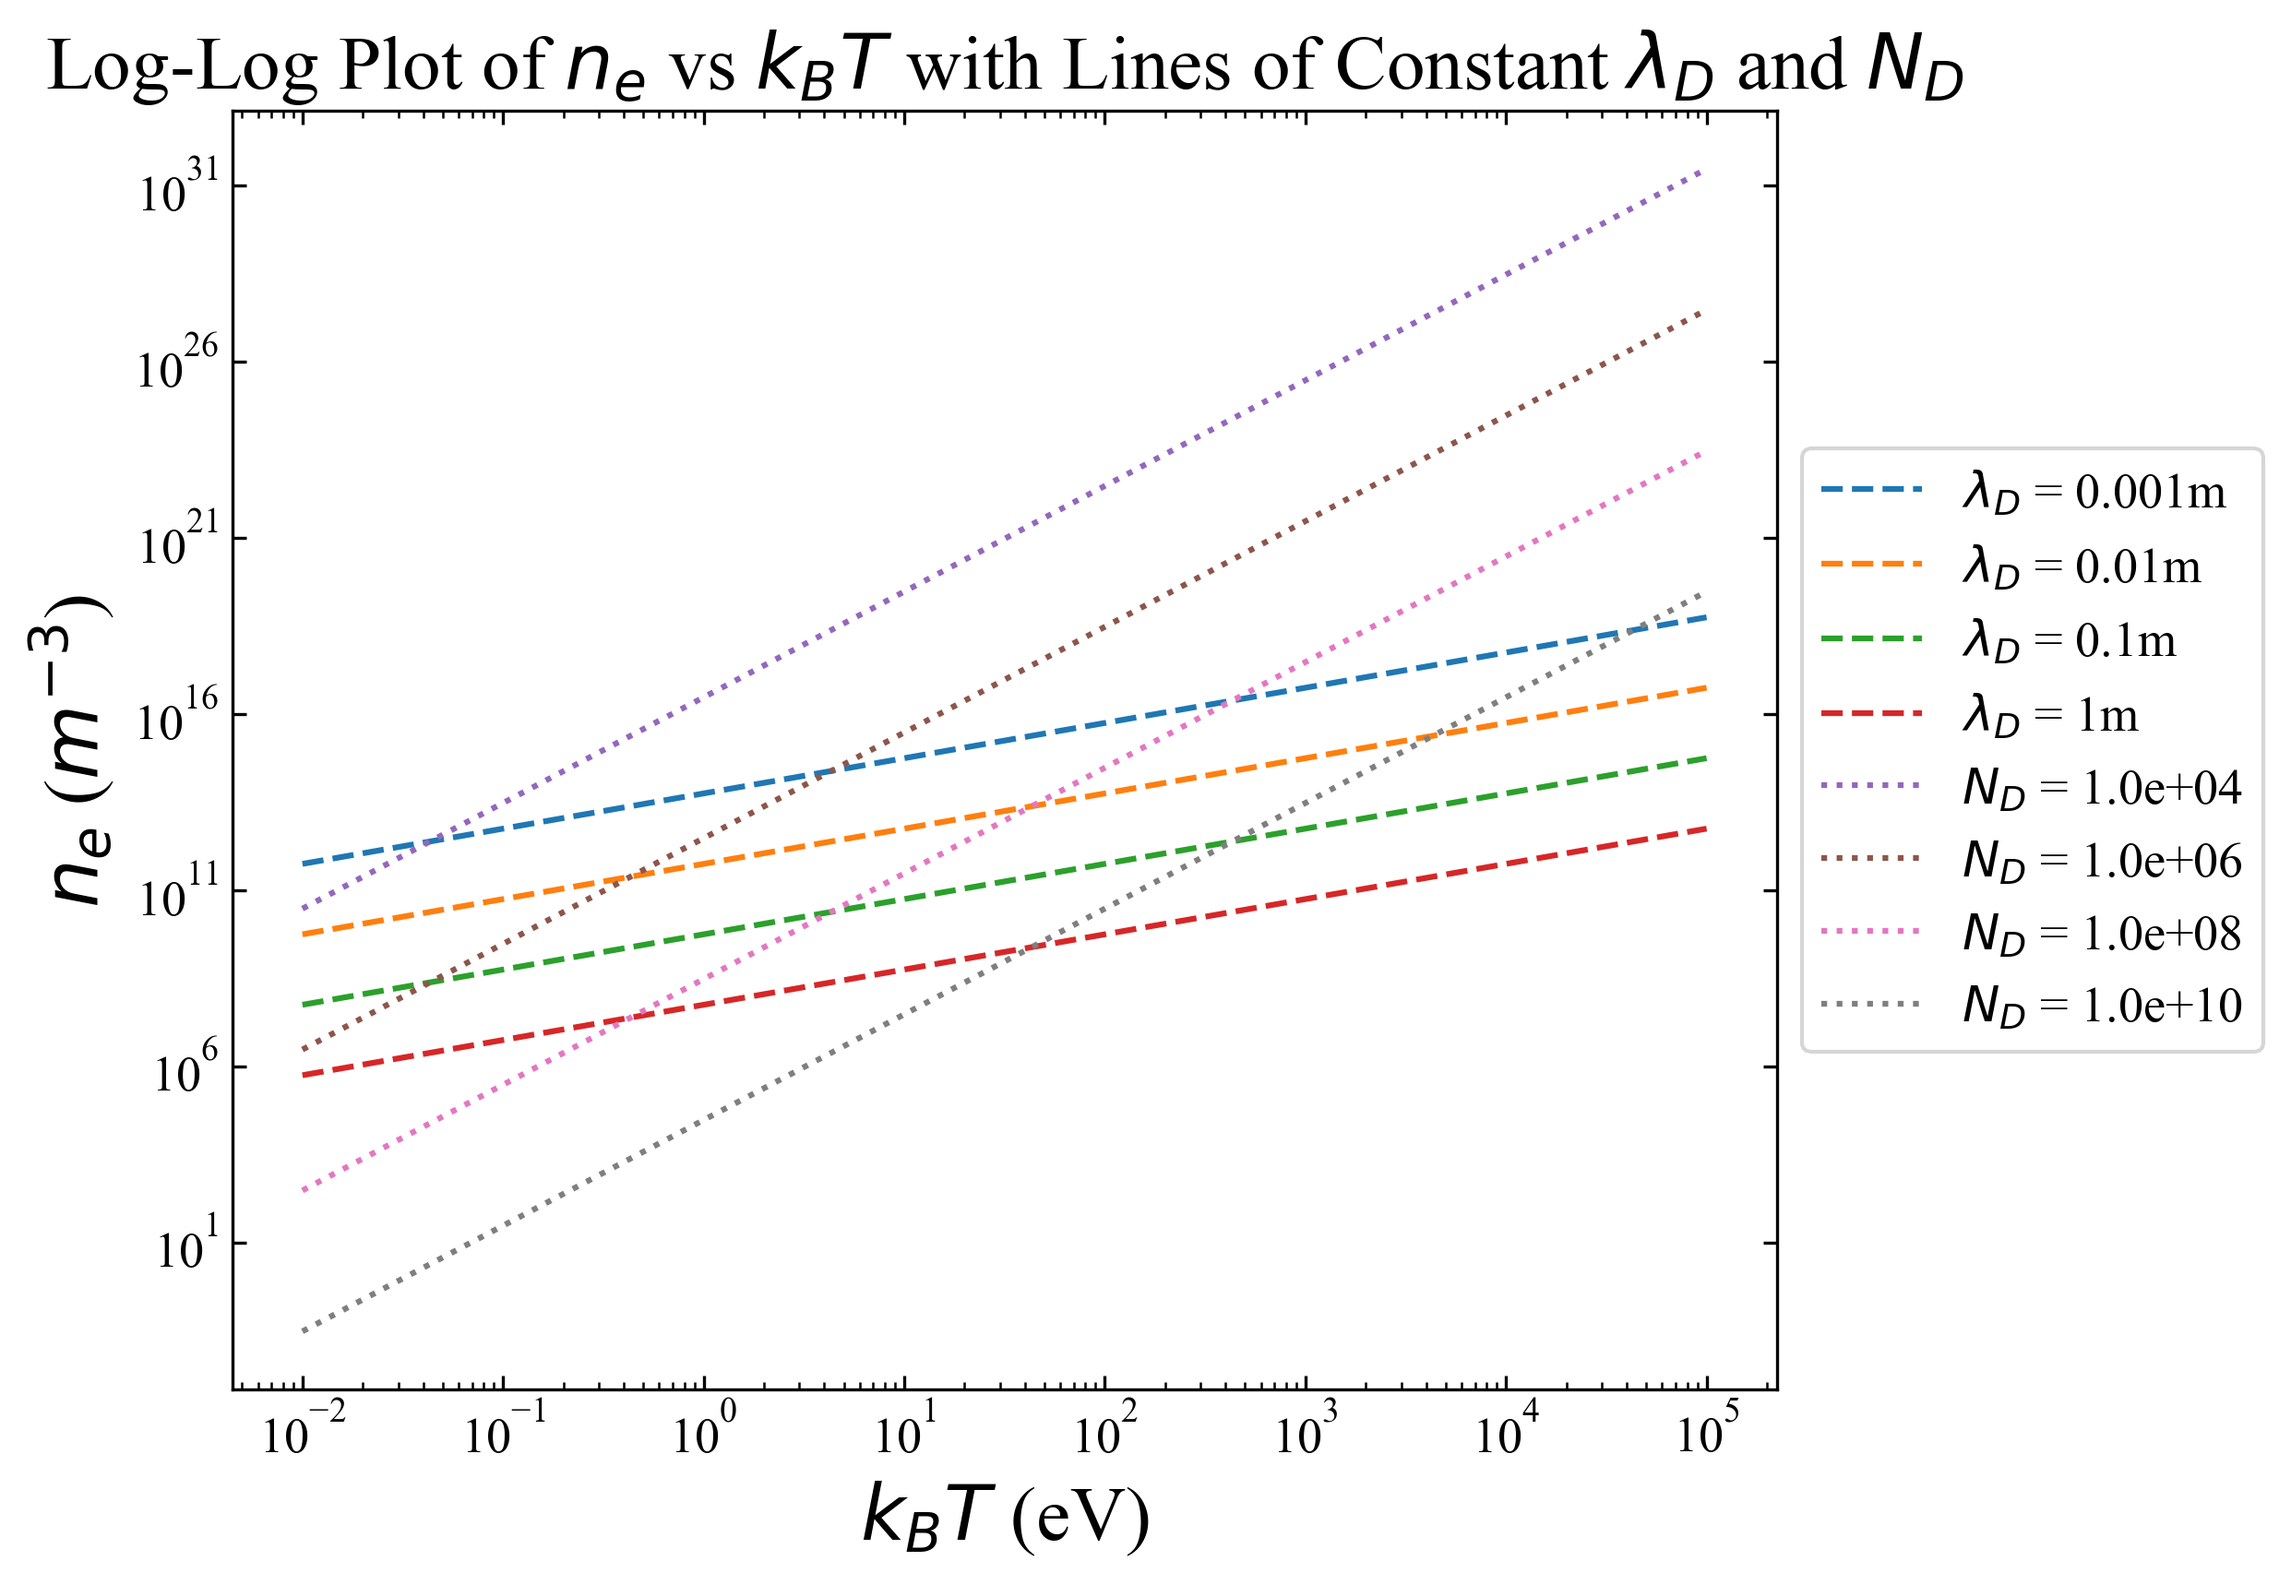
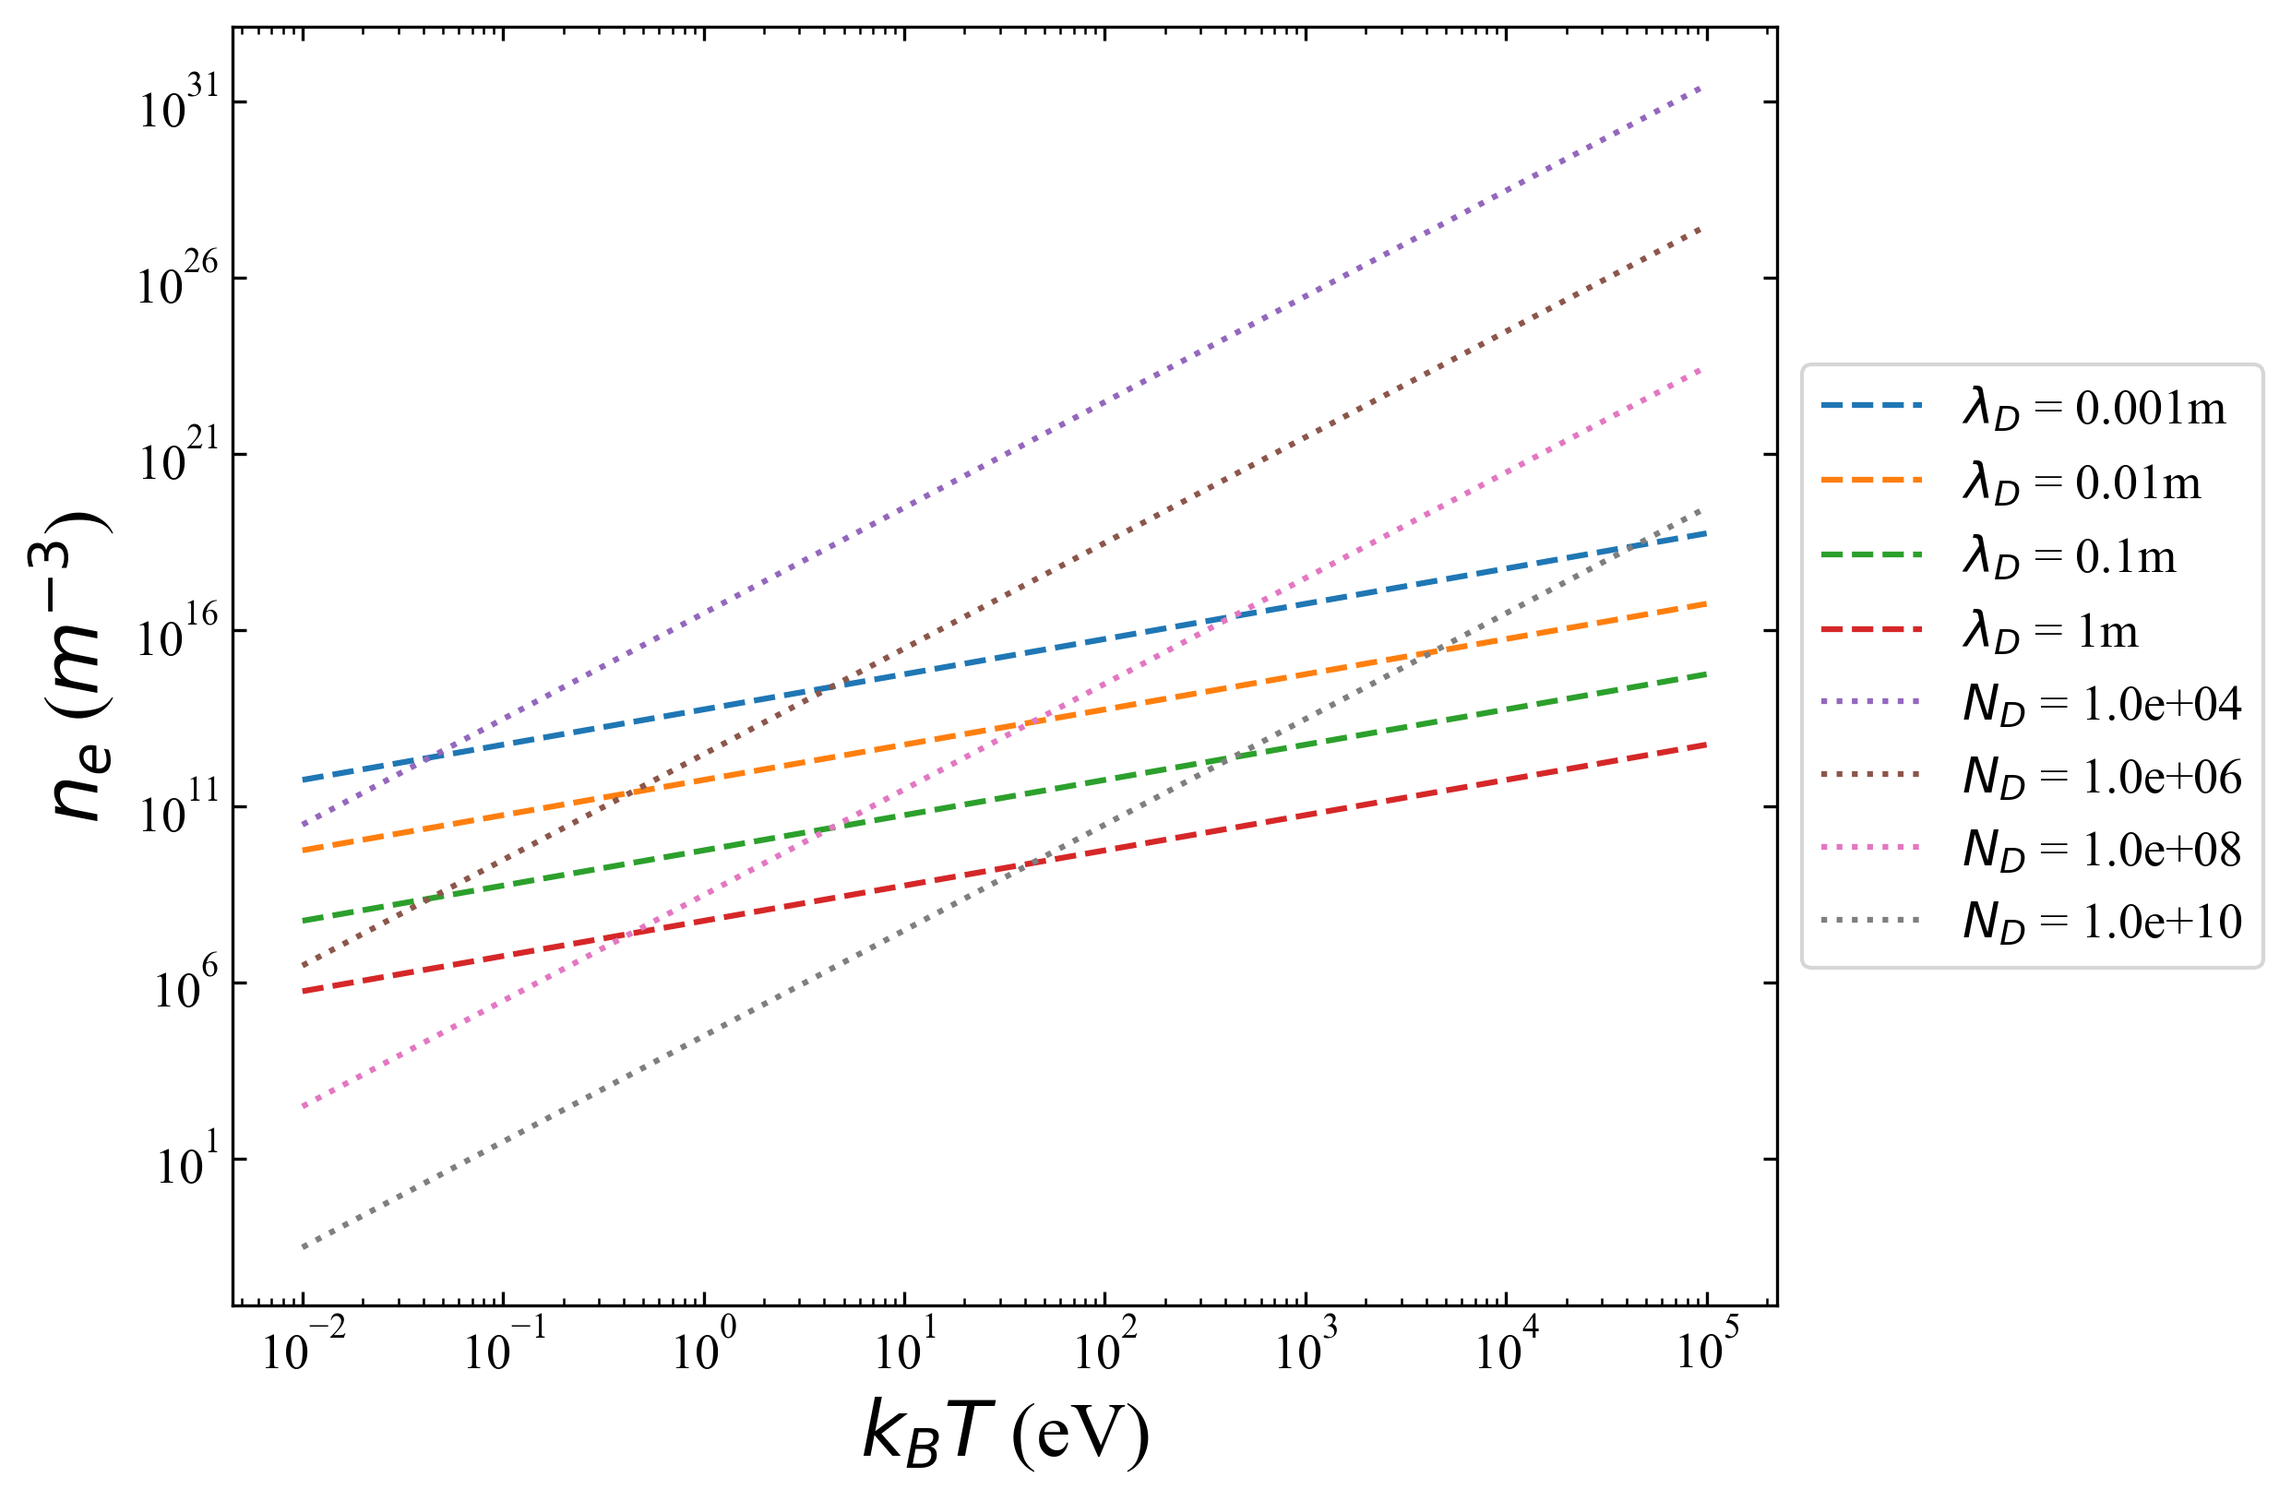
Removed title PHY4008 q1

diff --git a/PHY4008/q1.py b/PHY4008/q1.py
@@ -50,10 +50,10 @@ plt.xscale('log')
 plt.yscale('log')
 
 # Labels and legend
-plt.title(
-    'Log-Log Plot of $n_e$ vs $k_BT$ with Lines of Constant $λ_D$ and $N_D$',
-    fontsize=20
-)
+# plt.title(
+#     'Log-Log Plot of $n_e$ vs $k_BT$ with Lines of Constant $λ_D$ and $N_D$',
+#     fontsize=20
+# )
 ax.set_xlabel(
     '$k_BT$ (eV)',
     fontsize=20
